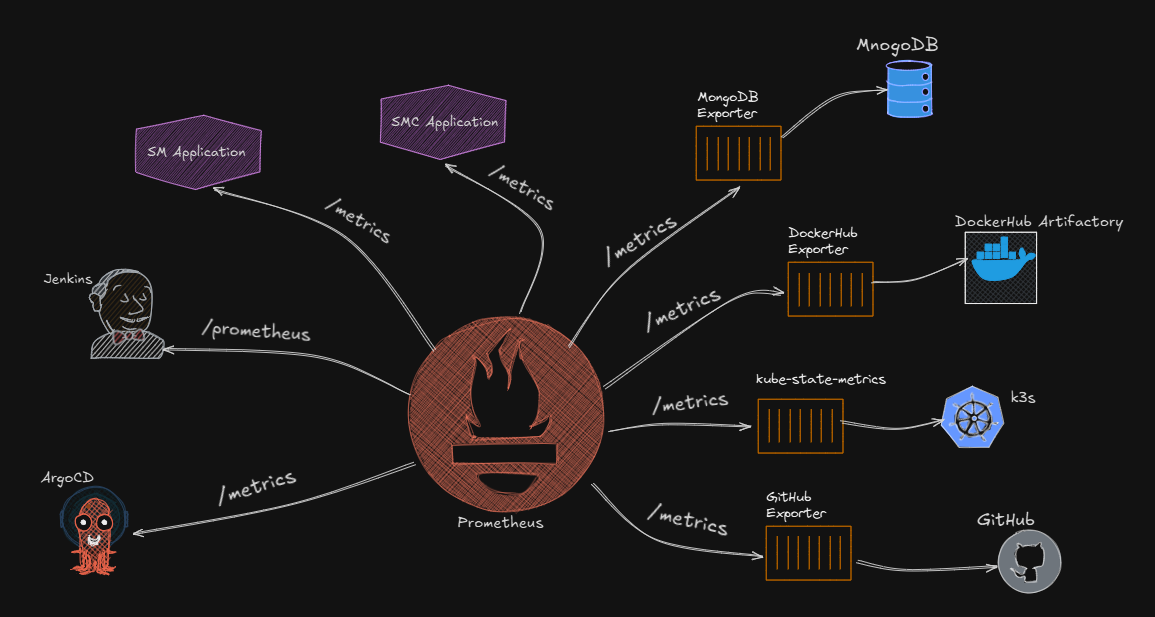
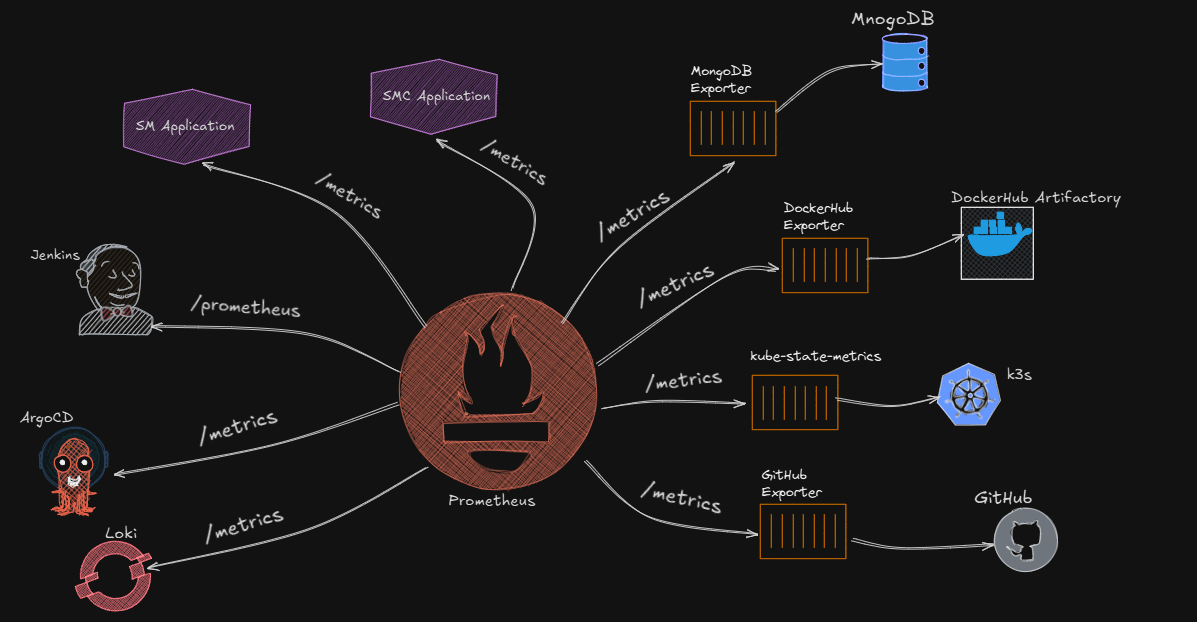
started - loki

diff --git a/explanations/prometheus/README.md b/explanations/prometheus/README.md
@@ -18,7 +18,7 @@ I use **Prometheus** as my primary monitoring tool because:
 
 ### 🔁 Workflow Summary
 
-- **Prometheus** scrapes metrics from services (e.g., GitHub Exporter,ArgoCD, MongoDB Exporter,SM Application,SMC Application,Jenkins).
+- **Prometheus** scrapes metrics from services (e.g., Loki, GitHub Exporter,ArgoCD, MongoDB Exporter,SM Application,SMC Application,Jenkins).
 - Metrics from applications and infrastructure are collected and stored in **time-series** format.
 
 ---

diff --git a/explanations/loki/README.md b/explanations/loki/README.md
@@ -1,0 +1,1 @@
+#TODO
